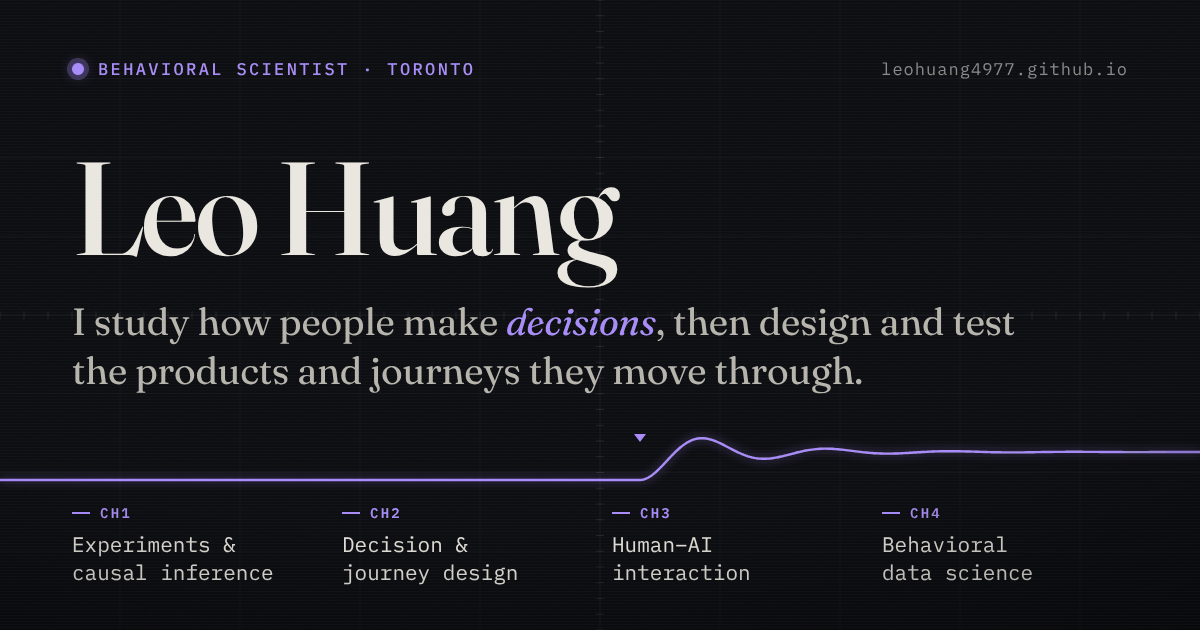
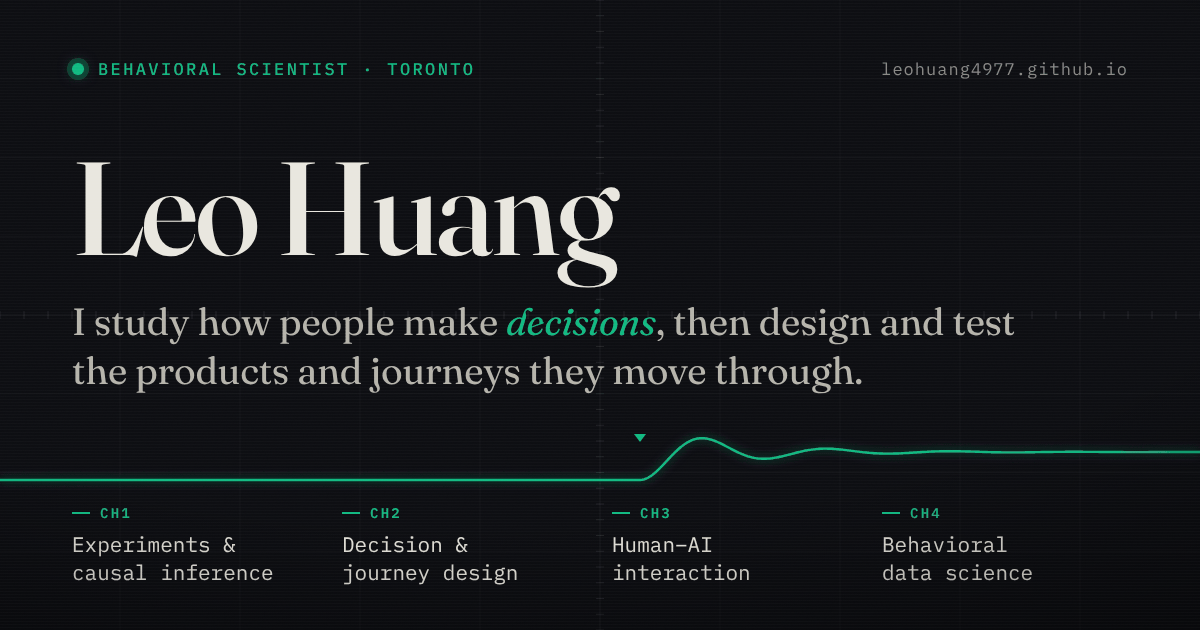
Accent back to emerald #10B981 (Leo, 2026-10-21)
Reverses the violet sweep: --accent #A78BFA -> #10B981, --accent-deep
#8B5CF6 -> #059669, rgba(167,139,250,a) -> rgba(16,185,129,a) with each
page's alpha kept, skill-chip hover back to #4ADE80, résumé print accent
back to #0a7a55, home cover tint back to hue-rotate(105deg), favicon fill,
and the share card recolored (same layout and text).

Claude-Session: https://claude.ai/code/session_019en4ReSP81eE8jBAkQ1o44

diff --git a/assets/scope.css b/assets/scope.css
@@ -8,23 +8,23 @@
   --ink:#E9E7DF; --ink-2:#B6B4AB; --ink-mute:#84868E;
   --line:rgba(255,255,255,0.13); --line-soft:rgba(255,255,255,0.06);
 
-  /* ACCENT, one source of truth: violet #A78BFA (Leo's call, Oct 2026; it replaced emerald
-     #10B981). Page accents, the blob cursor, rotating word and focus ring all read --accent or
+  /* ACCENT, one source of truth: emerald #10B981 (Leo's call, 2026-10-21: violet #A78BFA was
+     tried that morning and reverted). Page accents, the blob cursor, rotating word and focus ring all read --accent or
      the tones below, so a swap is --accent plus --accent-deep. Amber #F2B33C is reserved for
      the .todo callouts: keep it out of the accent. Baked copies to update by hand: the favicon
      fill (_includes/scope/head-meta.liquid), the share card PNG, and the case studies' own
      :root until they move onto this file. */
-  --accent:#A78BFA;                       /* 7.09:1 on paper, 6.59:1 on panel */
-  --accent-deep:#8B5CF6;                  /* solid button hover fill */
+  --accent:#10B981;                       /* 7.60:1 on paper, 7.07:1 on panel */
+  --accent-deep:#059669;                  /* solid button hover fill */
   /* Hex fallbacks for browsers without color-mix(); the @supports block derives them. */
-  --accent-ring:rgba(167,139,250,0.22);   /* halo around the wordmark dot */
-  --accent-soft:rgba(167,139,250,0.35);   /* resting underline on large accent links */
-  --accent-glow:rgba(167,139,250,0.5);    /* drop-shadow glow on traces and icons */
-  --accent-wash:rgba(167,139,250,0.14);   /* tinted fills (same names as the case pages) */
-  --accent-wash-2:rgba(167,139,250,0.08);
+  --accent-ring:rgba(16,185,129,0.22);   /* halo around the wordmark dot */
+  --accent-soft:rgba(16,185,129,0.35);   /* resting underline on large accent links */
+  --accent-glow:rgba(16,185,129,0.5);    /* drop-shadow glow on traces and icons */
+  --accent-wash:rgba(16,185,129,0.14);   /* tinted fills (same names as the case pages) */
+  --accent-wash-2:rgba(16,185,129,0.08);
   --focus-ring:var(--accent);
-  /* Résumé skill chips: their own lighter tone on purpose (green #4ADE80 in the emerald era). */
-  --skill-hover:#C4B5FD; --skill-hover-soft:rgba(196,181,253,.16);
+  /* Résumé skill chips: their own lighter green on purpose. */
+  --skill-hover:#4ADE80; --skill-hover-soft:rgba(74,222,128,.16);
   /* "Leo to check" callouts (same values as the case studies). */
   --todo:#F2B33C; --todo-soft:rgba(242,179,60,0.08); --todo-line:rgba(242,179,60,0.5);
   --cool:#5BA8E8; --warn:#C76B45;

diff --git a/_projects/en-us/accordion-usability-test.html b/_projects/en-us/accordion-usability-test.html
@@ -21,11 +21,11 @@ scope_nav: projects
     --paper:#0D0E12; --paper-2:#15171D; --panel:#15171C;
     --ink:#E9E7DF; --ink-2:#B6B4AB; --ink-mute:#84868E;
     --line:rgba(255,255,255,0.13); --line-soft:rgba(255,255,255,0.06);
-    /* Accent: violet #A78BFA, deep #8B5CF6 (Leo, 2026-10-21; it replaced emerald), the same values as assets/scope.css. --warn stays amber. */
-    --accent:#A78BFA; --accent-deep:#8B5CF6; --cool:#5BA8E8;
-    --accent-wash:rgba(167,139,250,0.14); --accent-wash-2:rgba(167,139,250,0.07);
-    --accent-ring:rgba(167,139,250,0.22); --focus-ring:var(--accent); /* read by /assets/shell.css */
-    --warn:#F2B33C; /* annotation hue — amber, kept distinct from the violet accent */
+    /* Accent: emerald #10B981, deep #059669 (Leo, 2026-10-21: back from violet), the same values as assets/scope.css. --warn stays amber. */
+    --accent:#10B981; --accent-deep:#059669; --cool:#5BA8E8;
+    --accent-wash:rgba(16,185,129,0.14); --accent-wash-2:rgba(16,185,129,0.07);
+    --accent-ring:rgba(16,185,129,0.22); --focus-ring:var(--accent); /* read by /assets/shell.css */
+    --warn:#F2B33C; /* annotation hue — amber, kept distinct from the emerald accent */
     --font-display:'Fraunces','Fraunces Fallback','Fraunces Fallback Noto','Fraunces Fallback Times',Georgia,serif;
     --font-body:'Hanken Grotesk','Hanken Grotesk Fallback','Hanken Grotesk Fallback Roboto',ui-sans-serif,system-ui,sans-serif;
     --font-mono:'IBM Plex Mono','IBM Plex Mono Fallback',ui-monospace,'Courier New',monospace;

diff --git a/_projects/en-us/ai-agents.html b/_projects/en-us/ai-agents.html
@@ -21,10 +21,10 @@ scope_nav: projects
     --paper:#0D0E12; --paper-2:#15171D; --panel:#15171C;
     --ink:#E9E7DF; --ink-2:#B6B4AB; --ink-mute:#84868E;
     --line:rgba(255,255,255,0.13); --line-soft:rgba(255,255,255,0.06);
-    /* Accent: violet #A78BFA, deep #8B5CF6 (Leo, 2026-10-21; it replaced emerald), the same values as assets/scope.css. --todo stays amber. */
-    --accent:#A78BFA; --todo:#F2B33C; --todo-soft:rgba(242,179,60,0.08); --todo-line:rgba(242,179,60,0.5); --accent-deep:#8B5CF6; --cool:#5BA8E8;
-    --accent-wash:rgba(167,139,250,0.14); --accent-wash-2:rgba(167,139,250,0.08);
-    --accent-ring:rgba(167,139,250,0.22); --focus-ring:var(--accent); /* read by /assets/shell.css */
+    /* Accent: emerald #10B981, deep #059669 (Leo, 2026-10-21: back from violet), the same values as assets/scope.css. --todo stays amber. */
+    --accent:#10B981; --todo:#F2B33C; --todo-soft:rgba(242,179,60,0.08); --todo-line:rgba(242,179,60,0.5); --accent-deep:#059669; --cool:#5BA8E8;
+    --accent-wash:rgba(16,185,129,0.14); --accent-wash-2:rgba(16,185,129,0.08);
+    --accent-ring:rgba(16,185,129,0.22); --focus-ring:var(--accent); /* read by /assets/shell.css */
     --font-display:'Fraunces','Fraunces Fallback','Fraunces Fallback Noto','Fraunces Fallback Times',Georgia,serif;
     --font-body:'Hanken Grotesk','Hanken Grotesk Fallback','Hanken Grotesk Fallback Roboto',ui-sans-serif,system-ui,sans-serif;
     --font-mono:'IBM Plex Mono','IBM Plex Mono Fallback',ui-monospace,'Courier New',monospace;

diff --git a/_projects/en-us/mortgage-switching.html b/_projects/en-us/mortgage-switching.html
@@ -21,10 +21,10 @@ scope_nav: projects
     --paper:#0D0E12; --paper-2:#15171D; --panel:#15171C;
     --ink:#E9E7DF; --ink-2:#B6B4AB; --ink-mute:#84868E;
     --line:rgba(255,255,255,0.13); --line-soft:rgba(255,255,255,0.06);
-    /* Accent: violet #A78BFA, deep #8B5CF6 (Leo, 2026-10-21; it replaced emerald), the same values as assets/scope.css. --todo stays amber. */
-    --accent:#A78BFA; --todo:#F2B33C; --todo-soft:rgba(242,179,60,0.08); --todo-line:rgba(242,179,60,0.5); --accent-deep:#8B5CF6; --cool:#5BA8E8;
-    --accent-wash:rgba(167,139,250,0.12); --accent-wash-2:rgba(167,139,250,0.05);
-    --accent-ring:rgba(167,139,250,0.22); --focus-ring:var(--accent); /* read by /assets/shell.css */
+    /* Accent: emerald #10B981, deep #059669 (Leo, 2026-10-21: back from violet), the same values as assets/scope.css. --todo stays amber. */
+    --accent:#10B981; --todo:#F2B33C; --todo-soft:rgba(242,179,60,0.08); --todo-line:rgba(242,179,60,0.5); --accent-deep:#059669; --cool:#5BA8E8;
+    --accent-wash:rgba(16,185,129,0.12); --accent-wash-2:rgba(16,185,129,0.05);
+    --accent-ring:rgba(16,185,129,0.22); --focus-ring:var(--accent); /* read by /assets/shell.css */
     --font-display:'Fraunces','Fraunces Fallback','Fraunces Fallback Noto','Fraunces Fallback Times',Georgia,serif;
     --font-body:'Hanken Grotesk','Hanken Grotesk Fallback','Hanken Grotesk Fallback Roboto',ui-sans-serif,system-ui,sans-serif;
     --font-mono:'IBM Plex Mono','IBM Plex Mono Fallback',ui-monospace,'Courier New',monospace;

diff --git a/_projects/en-us/advice-page-optimization.html b/_projects/en-us/advice-page-optimization.html
@@ -21,10 +21,10 @@ scope_nav: projects
     --paper:#0D0E12; --paper-2:#15171D; --panel:#15171C;
     --ink:#E9E7DF; --ink-2:#B6B4AB; --ink-mute:#84868E;
     --line:rgba(255,255,255,0.13); --line-soft:rgba(255,255,255,0.06);
-    /* Accent: violet #A78BFA, deep #8B5CF6 (Leo, 2026-10-21; it replaced emerald), the same values as assets/scope.css. --todo stays amber. */
-    --accent:#A78BFA; --accent-deep:#8B5CF6; --cool:#5BA8E8;
-    --accent-wash:rgba(167,139,250,0.14); --accent-wash-2:rgba(167,139,250,0.08);
-    --accent-ring:rgba(167,139,250,0.22); --focus-ring:var(--accent); /* read by /assets/shell.css */
+    /* Accent: emerald #10B981, deep #059669 (Leo, 2026-10-21: back from violet), the same values as assets/scope.css. --todo stays amber. */
+    --accent:#10B981; --accent-deep:#059669; --cool:#5BA8E8;
+    --accent-wash:rgba(16,185,129,0.14); --accent-wash-2:rgba(16,185,129,0.08);
+    --accent-ring:rgba(16,185,129,0.22); --focus-ring:var(--accent); /* read by /assets/shell.css */
     --todo:#F2B33C; --todo-soft:rgba(242,179,60,0.08); --todo-line:rgba(242,179,60,0.5);
     --font-display:'Fraunces','Fraunces Fallback','Fraunces Fallback Noto','Fraunces Fallback Times',Georgia,serif;
     --font-body:'Hanken Grotesk','Hanken Grotesk Fallback','Hanken Grotesk Fallback Roboto',ui-sans-serif,system-ui,sans-serif;

diff --git a/_projects/en-us/ai-writing-assistance.html b/_projects/en-us/ai-writing-assistance.html
@@ -21,10 +21,10 @@ scope_nav: projects
     --paper:#0D0E12; --paper-2:#15171D; --panel:#15171C;
     --ink:#E9E7DF; --ink-2:#B6B4AB; --ink-mute:#84868E;
     --line:rgba(255,255,255,0.13); --line-soft:rgba(255,255,255,0.06);
-    /* Accent: violet #A78BFA, deep #8B5CF6 (Leo, 2026-10-21; it replaced emerald), the same values as assets/scope.css. */
-    --accent:#A78BFA; --accent-deep:#8B5CF6; --cool:#5BA8E8;
-    --accent-wash:rgba(167,139,250,0.14); --accent-wash-2:rgba(167,139,250,0.07);
-    --accent-ring:rgba(167,139,250,0.22); --focus-ring:var(--accent); /* read by /assets/shell.css */
+    /* Accent: emerald #10B981, deep #059669 (Leo, 2026-10-21: back from violet), the same values as assets/scope.css. */
+    --accent:#10B981; --accent-deep:#059669; --cool:#5BA8E8;
+    --accent-wash:rgba(16,185,129,0.14); --accent-wash-2:rgba(16,185,129,0.07);
+    --accent-ring:rgba(16,185,129,0.22); --focus-ring:var(--accent); /* read by /assets/shell.css */
     --font-display:'Fraunces','Fraunces Fallback','Fraunces Fallback Noto','Fraunces Fallback Times',Georgia,serif;
     --font-body:'Hanken Grotesk','Hanken Grotesk Fallback','Hanken Grotesk Fallback Roboto',ui-sans-serif,system-ui,sans-serif;
     --font-mono:'IBM Plex Mono','IBM Plex Mono Fallback',ui-monospace,'Courier New',monospace;

diff --git a/_projects/en-us/competitive-ux-research.html b/_projects/en-us/competitive-ux-research.html
@@ -21,10 +21,10 @@ scope_nav: projects
     --paper:#0D0E12; --paper-2:#15171D; --panel:#15171C;
     --ink:#E9E7DF; --ink-2:#B6B4AB; --ink-mute:#84868E;
     --line:rgba(255,255,255,0.13); --line-soft:rgba(255,255,255,0.06);
-    /* Accent: violet #A78BFA, deep #8B5CF6 (Leo, 2026-10-21; it replaced emerald), the same values as assets/scope.css. */
-    --accent:#A78BFA; --accent-deep:#8B5CF6; --cool:#5BA8E8;
-    --accent-wash:rgba(167,139,250,0.14); --accent-wash-2:rgba(167,139,250,0.08);
-    --accent-ring:rgba(167,139,250,0.22); --focus-ring:var(--accent); /* read by /assets/shell.css */
+    /* Accent: emerald #10B981, deep #059669 (Leo, 2026-10-21: back from violet), the same values as assets/scope.css. */
+    --accent:#10B981; --accent-deep:#059669; --cool:#5BA8E8;
+    --accent-wash:rgba(16,185,129,0.14); --accent-wash-2:rgba(16,185,129,0.08);
+    --accent-ring:rgba(16,185,129,0.22); --focus-ring:var(--accent); /* read by /assets/shell.css */
     --font-display:'Fraunces','Fraunces Fallback','Fraunces Fallback Noto','Fraunces Fallback Times',Georgia,serif;
     --font-body:'Hanken Grotesk','Hanken Grotesk Fallback','Hanken Grotesk Fallback Roboto',ui-sans-serif,system-ui,sans-serif;
     --font-mono:'IBM Plex Mono','IBM Plex Mono Fallback',ui-monospace,'Courier New',monospace;

diff --git a/_projects/en-us/job-search-pipeline.html b/_projects/en-us/job-search-pipeline.html
@@ -23,10 +23,10 @@ sitemap: false
     --paper:#0D0E12; --paper-2:#15171D; --panel:#15171C;
     --ink:#E9E7DF; --ink-2:#B6B4AB; --ink-mute:#84868E;
     --line:rgba(255,255,255,0.13); --line-soft:rgba(255,255,255,0.06);
-    /* Accent: purple #A78BFA, deep #8B5CF6 (Leo, 2026-10-21), replacing emerald. --todo stays amber. */
-    --accent:#A78BFA; --accent-deep:#8B5CF6; --cool:#5BA8E8;
-    --accent-wash:rgba(167,139,250,0.14); --accent-wash-2:rgba(167,139,250,0.08);
-    --accent-ring:rgba(167,139,250,0.22); --focus-ring:var(--accent); /* read by /assets/shell.css */
+    /* Accent: emerald #10B981, deep #059669 (Leo, 2026-10-21: back from purple), the same values as assets/scope.css. --todo stays amber. */
+    --accent:#10B981; --accent-deep:#059669; --cool:#5BA8E8;
+    --accent-wash:rgba(16,185,129,0.14); --accent-wash-2:rgba(16,185,129,0.08);
+    --accent-ring:rgba(16,185,129,0.22); --focus-ring:var(--accent); /* read by /assets/shell.css */
     --todo:#F2B33C; --todo-soft:rgba(242,179,60,0.08); --todo-line:rgba(242,179,60,0.5);
     --font-display:'Fraunces','Fraunces Fallback','Fraunces Fallback Noto','Fraunces Fallback Times',Georgia,serif;
     --font-body:'Hanken Grotesk','Hanken Grotesk Fallback','Hanken Grotesk Fallback Roboto',ui-sans-serif,system-ui,sans-serif;

diff --git a/assets/pages/about.css b/assets/pages/about.css
@@ -60,10 +60,10 @@
 
 /* ---------- 03 selected work: cover cards ---------- */
 .work .cover{display:block;margin:-26px -26px 6px;aspect-ratio:2/1;overflow:hidden;border-bottom:1px solid var(--line);background:var(--paper)}
-/* Covers are older art in another palette; tint them to the violet accent (hue-rotate 215deg lands
-   on #A78BFA's hue; delete the filter to show the original colours). A filter chain (no url()
+/* Covers are older art in another palette; tint them to the scope's phosphor green (hue-rotate
+   105deg, as before the October 2026 revision; delete the filter to show the original colours). A filter chain (no url()
    reference) so every browser renders it the same way. */
-.work .cover img{display:block;width:100%;height:100%;object-fit:cover;object-position:50% 40%;filter:grayscale(1) sepia(1) hue-rotate(215deg) saturate(1.9) brightness(.82) contrast(1.15)}
+.work .cover img{display:block;width:100%;height:100%;object-fit:cover;object-position:50% 40%;filter:grayscale(1) sepia(1) hue-rotate(105deg) saturate(1.9) brightness(.82) contrast(1.15)}
 /* pillar tags (two or three per card): wrap between tags, never inside one */
 .work .tag{flex-wrap:wrap;column-gap:8px;row-gap:3px;line-height:1.5}
 .work .tag span{white-space:nowrap}

diff --git a/_projects/en-us/generational-wealth-transfer.html b/_projects/en-us/generational-wealth-transfer.html
@@ -21,9 +21,9 @@ scope_nav: projects
     --paper:#0D0E12; --paper-2:#15171D; --panel:#15171C;
     --ink:#E9E7DF; --ink-2:#B6B4AB; --ink-mute:#84868E;
     --line:rgba(255,255,255,0.13); --line-soft:rgba(255,255,255,0.06);
-    /* Accent: violet #A78BFA, deep #8B5CF6 (Leo, 2026-10-21; it replaced emerald), the same values as assets/scope.css. */
-    --accent:#A78BFA; --accent-deep:#8B5CF6; --cool:#5BA8E8; --accent-wash:rgba(167,139,250,0.14);
-    --accent-ring:rgba(167,139,250,0.22); --focus-ring:var(--accent); /* read by /assets/shell.css */
+    /* Accent: emerald #10B981, deep #059669 (Leo, 2026-10-21: back from violet), the same values as assets/scope.css. */
+    --accent:#10B981; --accent-deep:#059669; --cool:#5BA8E8; --accent-wash:rgba(16,185,129,0.14);
+    --accent-ring:rgba(16,185,129,0.22); --focus-ring:var(--accent); /* read by /assets/shell.css */
     --font-display:'Fraunces','Fraunces Fallback','Fraunces Fallback Noto','Fraunces Fallback Times',Georgia,serif;
     --font-body:'Hanken Grotesk','Hanken Grotesk Fallback','Hanken Grotesk Fallback Roboto',ui-sans-serif,system-ui,sans-serif;
     --font-mono:'IBM Plex Mono','IBM Plex Mono Fallback',ui-monospace,'Courier New',monospace;

diff --git a/assets/enhancements.css b/assets/enhancements.css
@@ -1,5 +1,5 @@
 /* Interactive enhancements layer — additive only, references the shared --accent
-   token (violet) from assets/scope.css, which must load first. Served verbatim: this file lives OUTSIDE assets/css/ so PurgeCSS
+   token (emerald) from assets/scope.css, which must load first. Served verbatim: this file lives OUTSIDE assets/css/ so PurgeCSS
    (css: ["_site/assets/css/*.css"]) never strips the JS-toggled classes
    (.shrunk, .cursor-blob, .has-cursor-blob), and it is listed in
    jekyll-minifier.exclude so the compressor leaves it alone — same handling as
@@ -36,7 +36,7 @@ header.topbar.shrunk .wordmark{ font-size:13px; }                       /* was ~
 @media (prefers-reduced-motion:reduce){ .cursor-blob{ display:none; } }
 
 /* Skills chips — cursor-reactive hover (CV/Résumé Skills section only).
-   Uses a DEDICATED hover token (a lighter violet), intentionally separate from --accent.
+   Uses a DEDICATED hover token (a lighter green), intentionally separate from --accent.
    The tokens (--skill-hover, --skill-hover-soft) sit next to --accent in assets/scope.css.
    Scoped to `.skills .chip` so nothing outside the Skills section is affected. */
 .skills .chip{

diff --git a/_projects/en-us/in-channel-knowledge-agents.html b/_projects/en-us/in-channel-knowledge-agents.html
@@ -22,12 +22,12 @@ scope_nav: projects
     --ink:#E9E7DF; --ink-2:#B6B4AB; --ink-mute:#84868E;
     --line:rgba(255,255,255,0.13); --line-soft:rgba(255,255,255,0.06);
 
-    /* Accent: violet #A78BFA, deep #8B5CF6 (Leo, 2026-10-21; it replaced emerald), the same values as assets/scope.css. --todo stays amber. */
-    --accent:#A78BFA;
-    --accent-deep:#8B5CF6;
-    --accent-wash:rgba(167,139,250,0.22);
-    --accent-glow:rgba(167,139,250,0.40);
-    --accent-ring:rgba(167,139,250,0.22); --focus-ring:var(--accent); /* read by /assets/shell.css */
+    /* Accent: emerald #10B981, deep #059669 (Leo, 2026-10-21: back from violet), the same values as assets/scope.css. --todo stays amber. */
+    --accent:#10B981;
+    --accent-deep:#059669;
+    --accent-wash:rgba(16,185,129,0.22);
+    --accent-glow:rgba(16,185,129,0.40);
+    --accent-ring:rgba(16,185,129,0.22); --focus-ring:var(--accent); /* read by /assets/shell.css */
     --cool:#5BA8E8;
     --todo:#F2B33C; --todo-soft:rgba(242,179,60,0.09); --todo-line:rgba(242,179,60,0.45);
 
